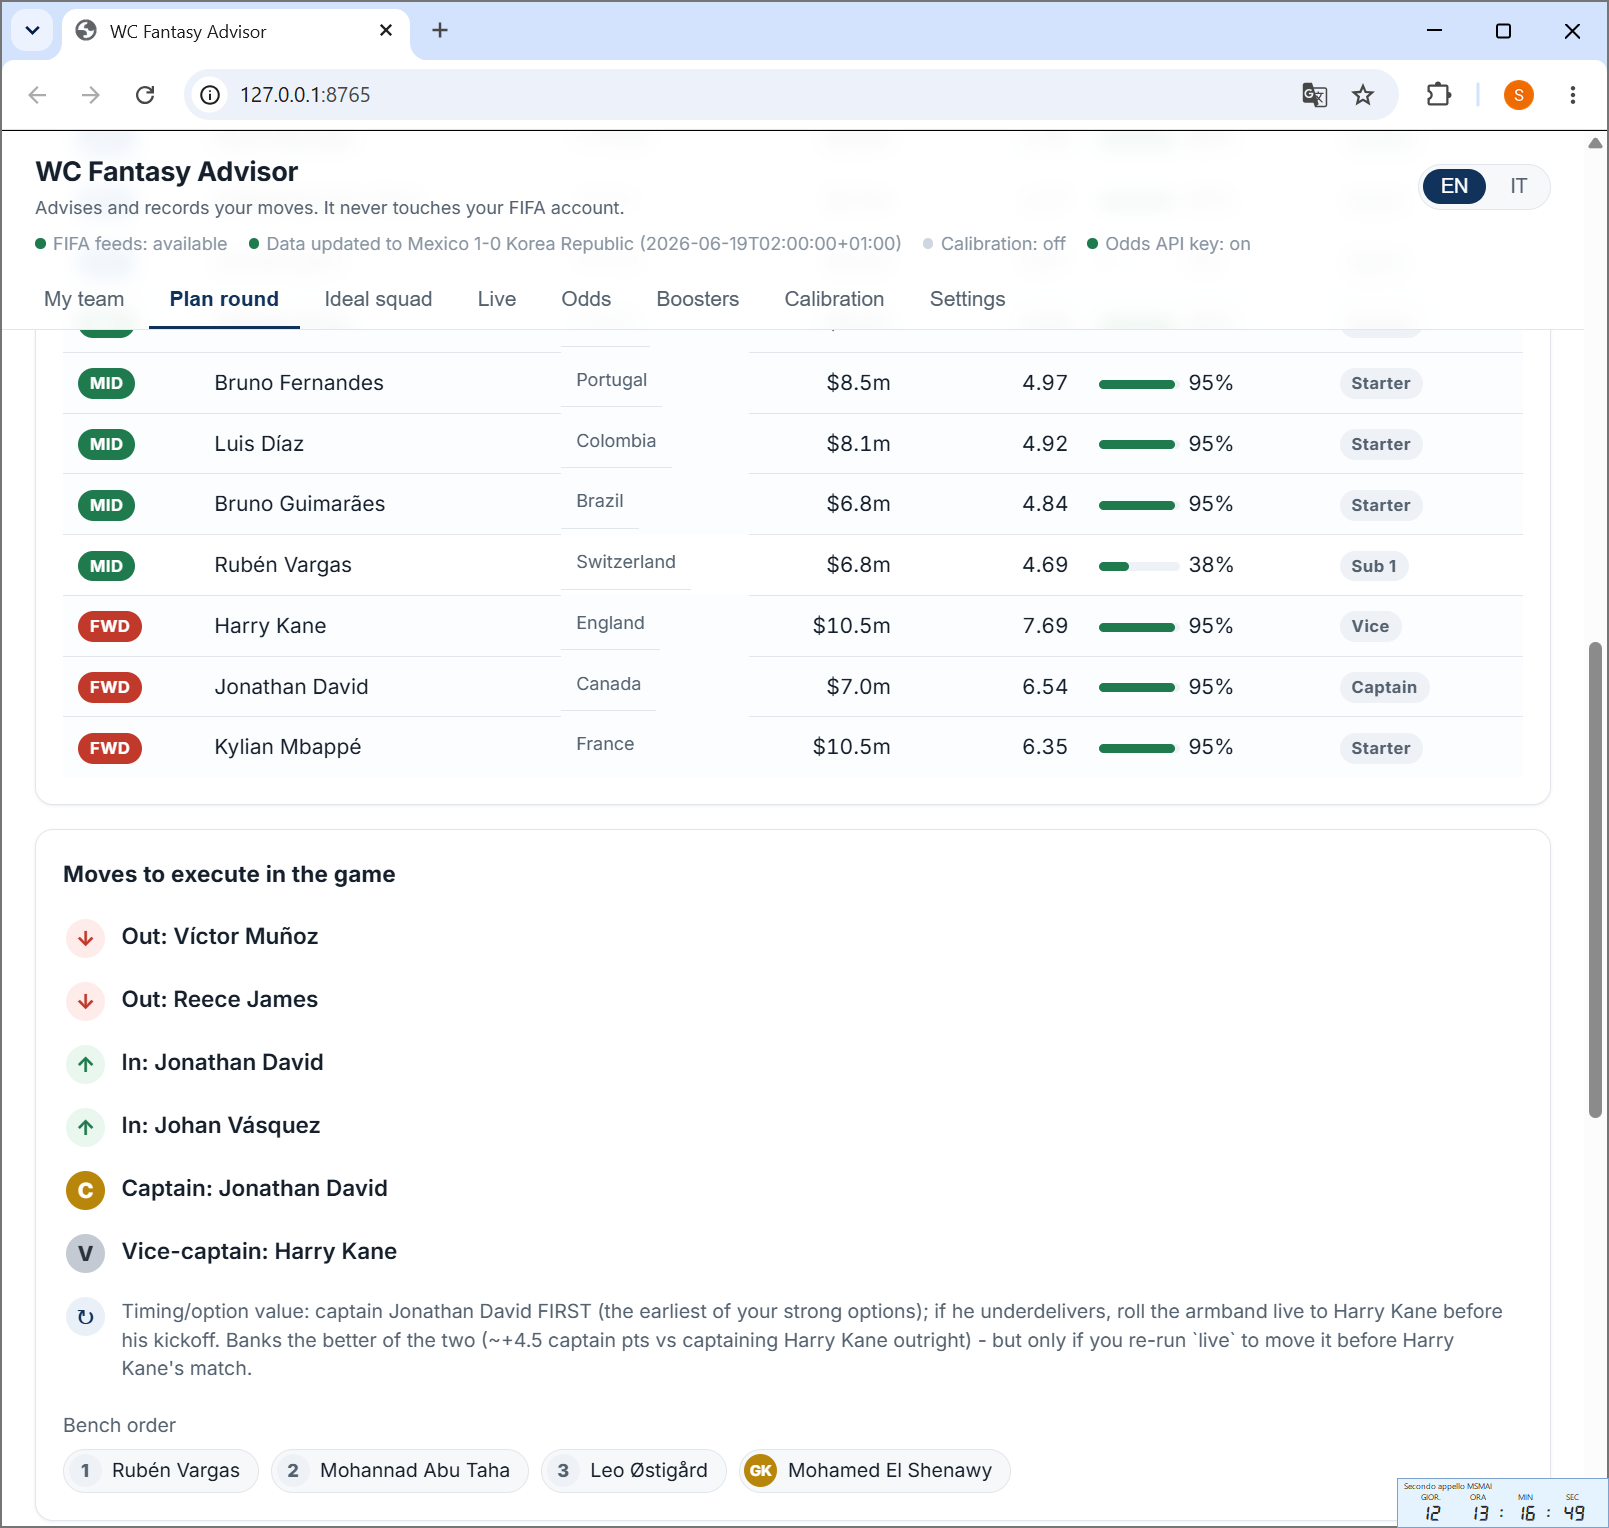
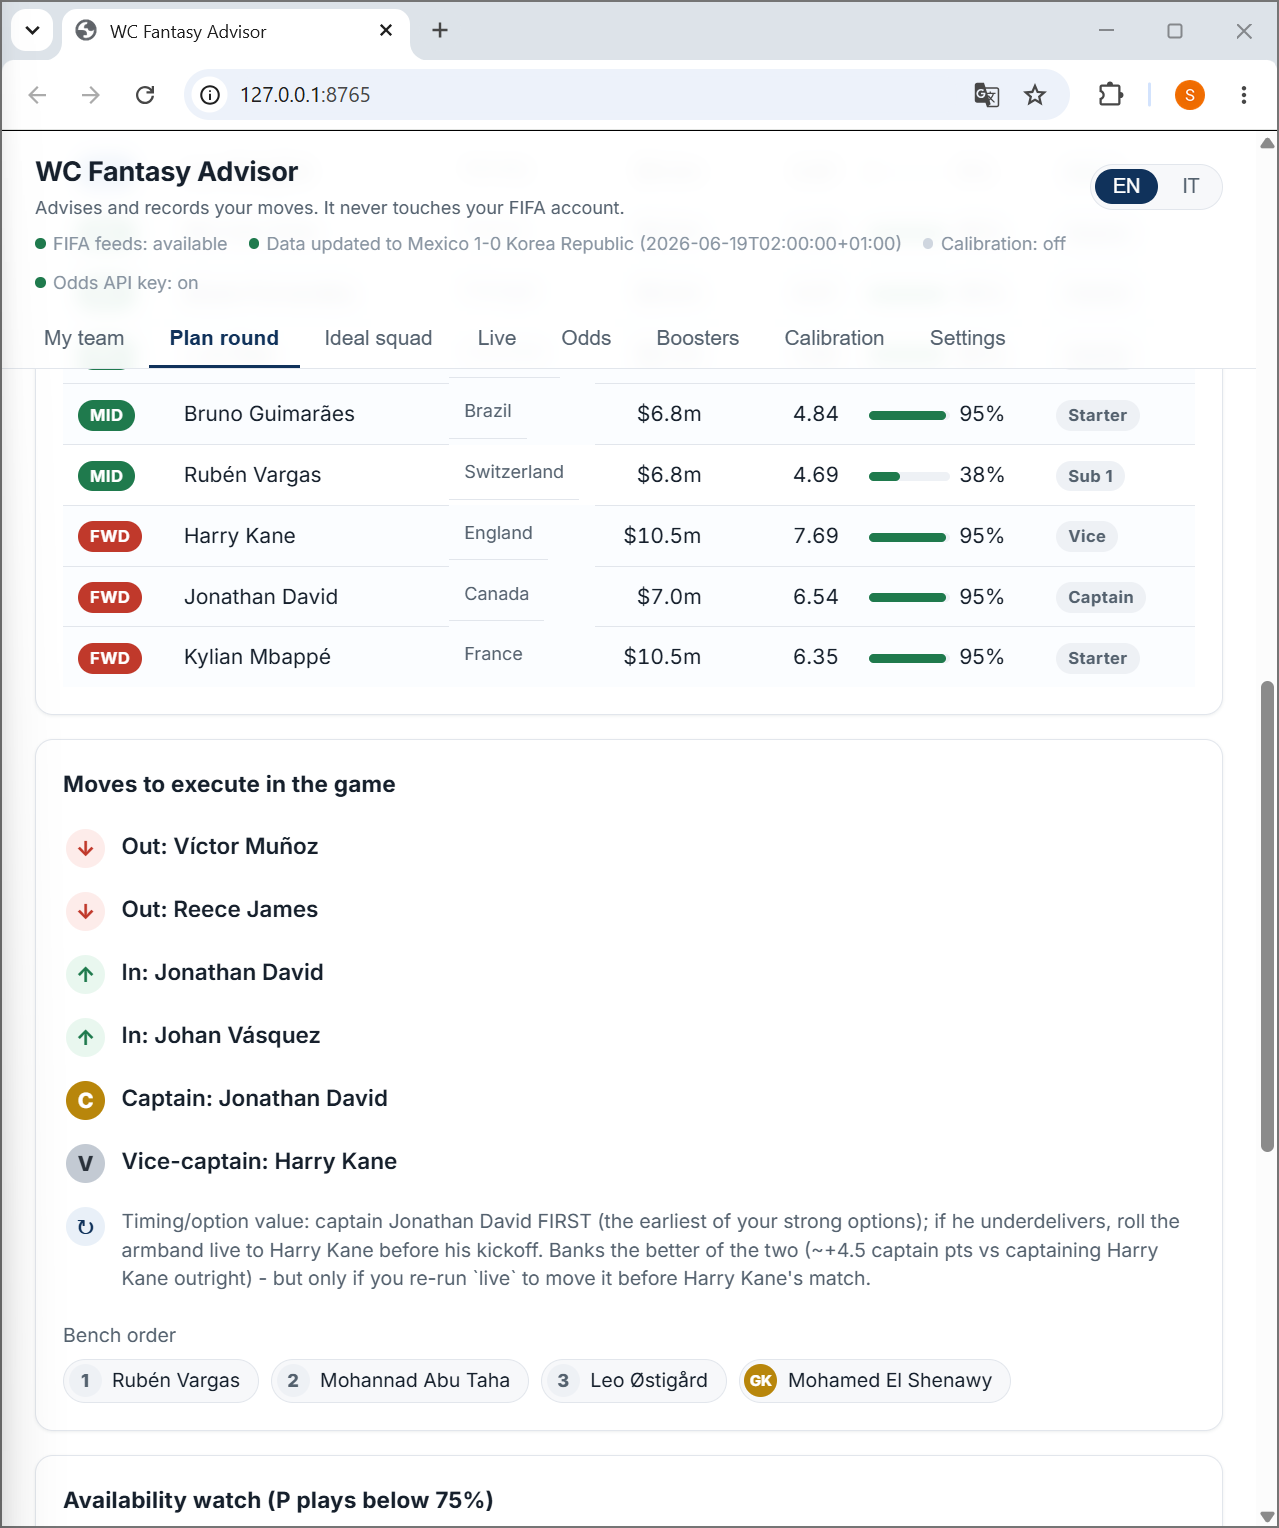
Add My team screenshot to the README web app section

diff --git a/README.md b/README.md
@@ -46,6 +46,10 @@ python -m wcfantasy serve            # http://127.0.0.1:8765
 python -m wcfantasy serve --port 9000 --no-browser
 ```
 
+It opens on **My team**, your current squad at a glance:
+
+![My team in the web app](docs/web-myteam.png)
+
 Open **Plan round** and the advisor refreshes the FIFA feeds, rebuilds the plan, and shows
 the recommended squad for the next round:
 
